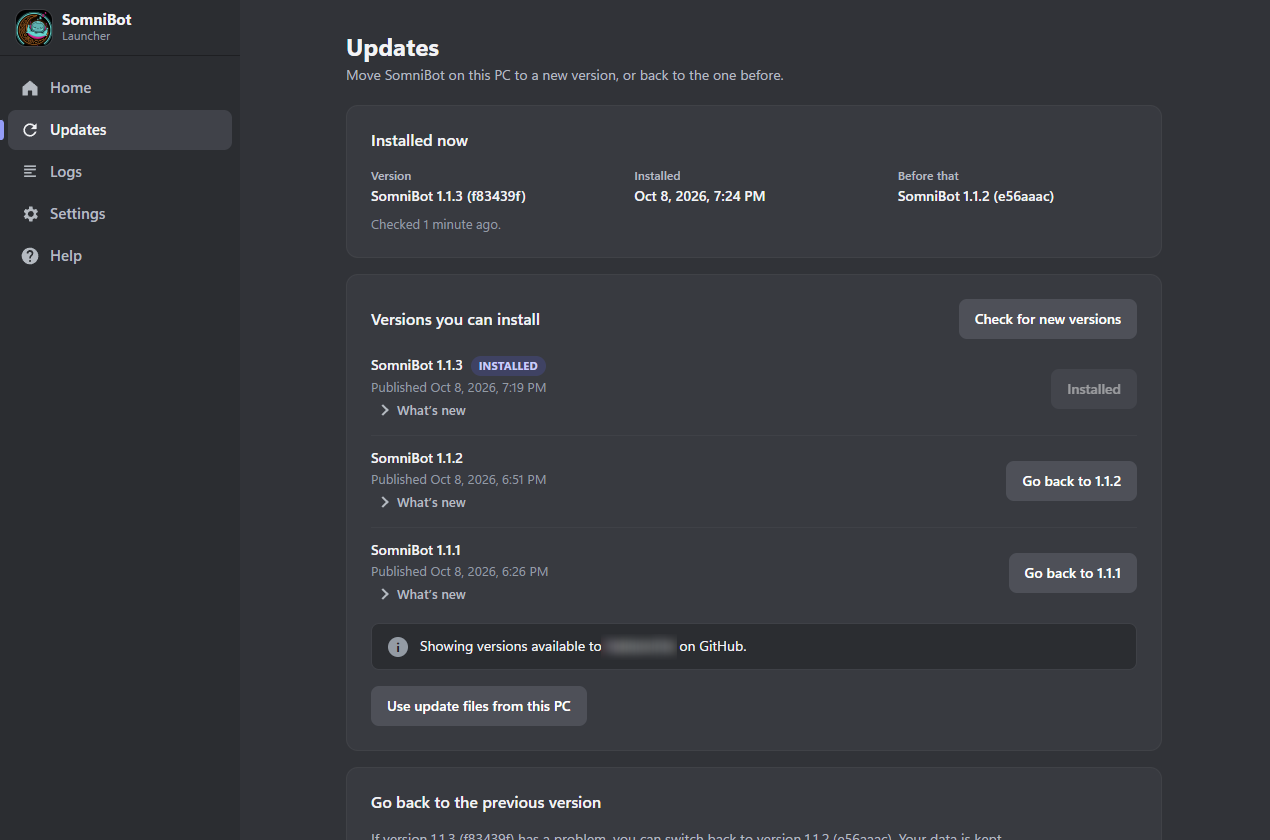
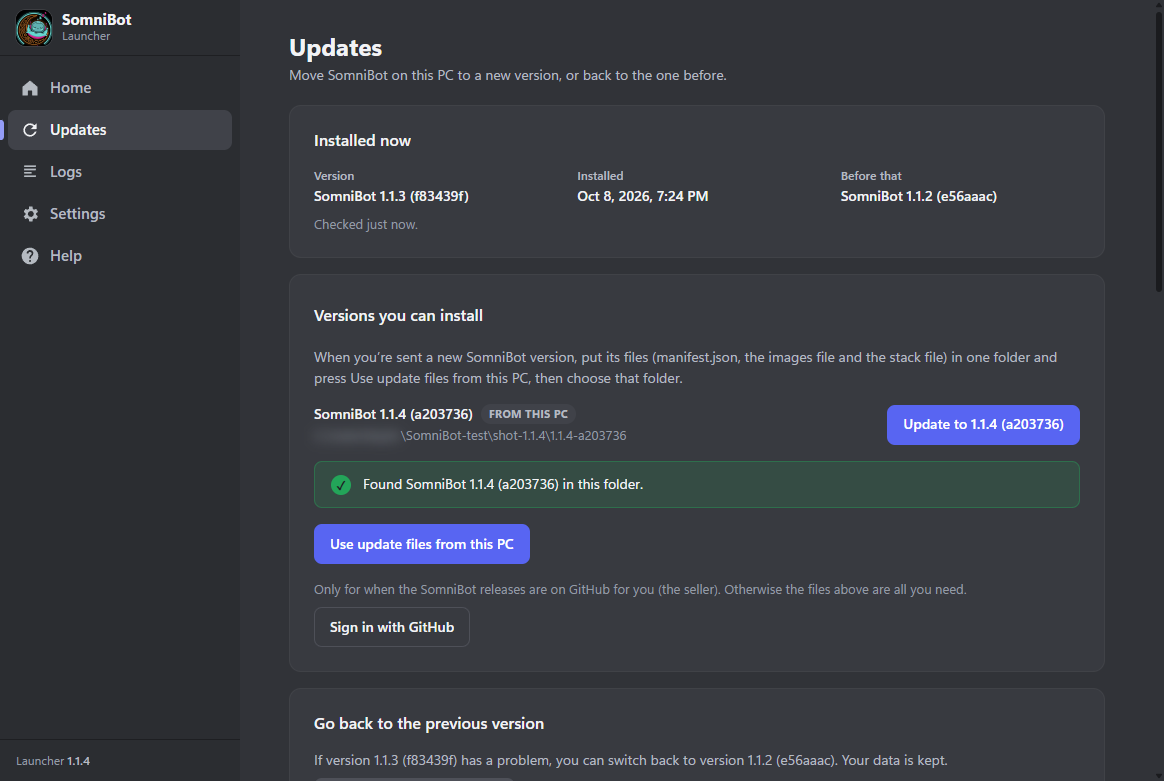
Updates are from the files you're sent; Updates screenshot from a customer's view

diff --git a/README.md b/README.md
@@ -206,8 +206,9 @@ starts and stops it, updates it, and rolls back to the version before.
   Checks, the download, the backup and database changes happen before anything running
   is touched. If the new version doesn't pass its health check, the Launcher switches
   back on its own.
-- **One-click updates.** Sign in with GitHub once and the Launcher lists each new
-  version of SomniBot, installs it with one click, and keeps itself up to date too.
+- **Updates in one step.** When a new version arrives, point the Launcher at its files
+  and press **Update**: it checks every file, backs up the database and switches over,
+  and the full guide comes with the Launcher, readable offline.
 - **Your data, portable.** Export everything (every table and every uploaded file) to
   one file, and import it on another machine or database.
 - **Your database, your choice.** A Supabase project, your own Supabase, or a database
